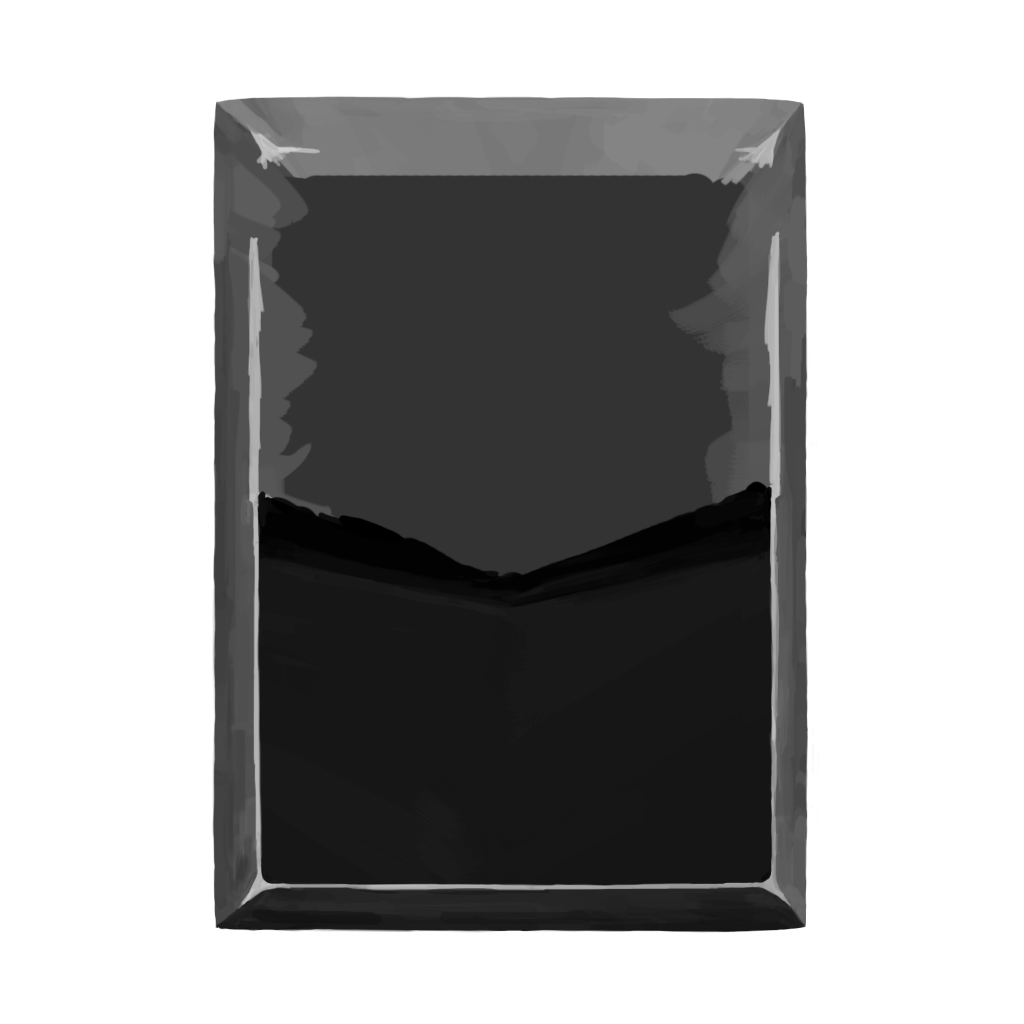
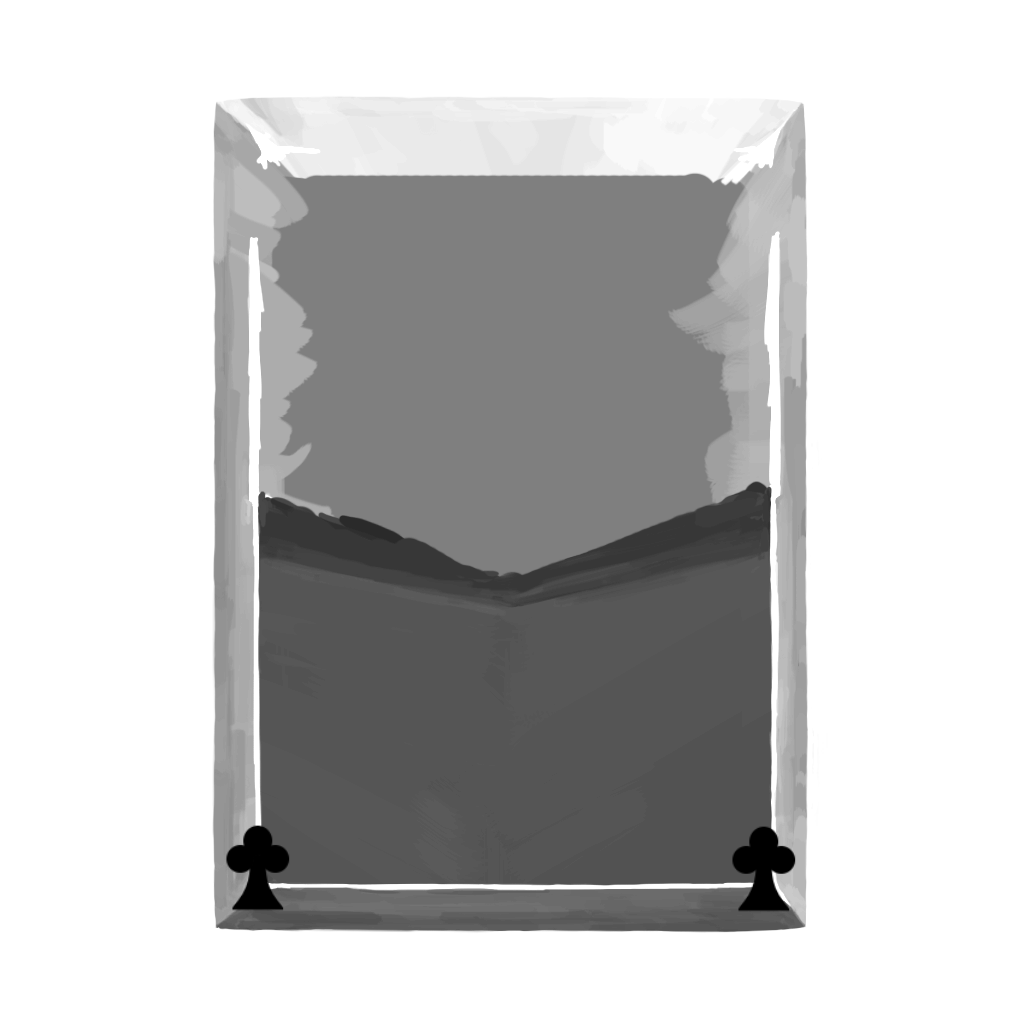
Added new Heart of Gold power and updated card art.

diff --git a/src/main/java/gamblermod/powers/HeartOfGoldPower.java b/src/main/java/gamblermod/powers/HeartOfGoldPower.java
@@ -1,0 +1,97 @@
+package gamblermod.powers;
+
+import com.badlogic.gdx.graphics.Texture;
+import com.megacrit.cardcrawl.actions.common.DrawCardAction;
+import com.megacrit.cardcrawl.core.AbstractCreature;
+import com.megacrit.cardcrawl.core.CardCrawlGame;
+import com.megacrit.cardcrawl.core.Settings;
+import com.megacrit.cardcrawl.dungeons.AbstractDungeon;
+import com.megacrit.cardcrawl.helpers.Hitbox;
+import com.megacrit.cardcrawl.helpers.ImageMaster;
+import com.megacrit.cardcrawl.localization.PowerStrings;
+import com.megacrit.cardcrawl.powers.AbstractPower;
+import com.megacrit.cardcrawl.vfx.GainPennyEffect;
+import gamblermod.cards.powers.HeartOfGold;
+
+public class HeartOfGoldPower extends AbstractPower
+{
+    public static final String POWER_ID = "gamblermod:HeartOfGoldPower";
+    public static final PowerStrings powerInfo = CardCrawlGame.languagePack.getPowerStrings(POWER_ID);
+    public static final String NAME = powerInfo.NAME;
+    public static final String[] DESCRIPTIONS = powerInfo.DESCRIPTIONS;
+    public static final String IMG = "gamblermod/img/powers/HeartOfGoldPowerS.png";
+
+    private int drawPower = 0;
+
+    private int regStacks = 0;
+    private int upStacks = 0;
+
+    public HeartOfGoldPower(AbstractCreature owner, int stacks)
+    {
+        this.img = ImageMaster.loadImage(IMG);
+        this.name = NAME;
+
+        this.owner = owner;
+
+        this.type = PowerType.BUFF;
+        ID = POWER_ID;
+
+        this.amount = stacks;
+
+        drawPower = 1;
+
+        if(stacks == HeartOfGold.GOLD_COST)
+            regStacks++;
+        else
+            upStacks++;
+
+        updateDescription();
+    }
+
+    @Override
+    public void stackPower(int stackAmount)
+    {
+        this.amount += stackAmount;
+        drawPower++;
+        if(stackAmount == HeartOfGold.GOLD_COST)
+            regStacks++;
+        else
+            upStacks++;
+    }
+
+    @Override
+    public void updateDescription()
+    {
+        this.description = DESCRIPTIONS[0] + this.amount + DESCRIPTIONS[1] + this.drawPower + DESCRIPTIONS[2];
+    }
+
+    @Override
+    public void atStartOfTurn()
+    {
+        int UpgradeGold = HeartOfGold.GOLD_COST - HeartOfGold.GOLD_DISCOUNT;
+        for(int i = 0; i < upStacks; i++)
+        {
+            if(AbstractDungeon.player.gold >= UpgradeGold)
+            {
+                Hitbox playerBox = AbstractDungeon.player.hb;
+                for(int j = 0; j < UpgradeGold; j++)
+                    AbstractDungeon.effectList.add(new GainPennyEffect(this.owner, playerBox.cX, playerBox.cY,
+                            playerBox.cX, playerBox.cY - 100 * Settings.scale, false));
+                AbstractDungeon.player.loseGold(UpgradeGold);
+                AbstractDungeon.actionManager.addToBottom(new DrawCardAction(this.owner, 1));
+            }
+        }
+        for(int i = 0; i < regStacks; i++)
+        {
+            if(AbstractDungeon.player.gold >= HeartOfGold.GOLD_COST)
+            {
+                Hitbox playerBox = AbstractDungeon.player.hb;
+                for(int j = 0; j < HeartOfGold.GOLD_COST; j++)
+                    AbstractDungeon.effectList.add(new GainPennyEffect(this.owner, playerBox.cX, playerBox.cY,
+                            playerBox.cX, playerBox.cY - 100 * Settings.scale, false));
+                AbstractDungeon.player.loseGold(HeartOfGold.GOLD_COST);
+                AbstractDungeon.actionManager.addToBottom(new DrawCardAction(this.owner, 1));
+            }
+        }
+    }
+}

diff --git a/src/main/java/gamblermod/actions/SmuggleCardsAction.java b/src/main/java/gamblermod/actions/SmuggleCardsAction.java
@@ -1,12 +1,14 @@
 package gamblermod.actions;
 
 import com.megacrit.cardcrawl.actions.AbstractGameAction;
-import com.megacrit.cardcrawl.actions.common.DiscardAction;
-import com.megacrit.cardcrawl.actions.common.DiscardSpecificCardAction;
-import com.megacrit.cardcrawl.actions.common.DrawCardAction;
+import com.megacrit.cardcrawl.actions.common.*;
+import com.megacrit.cardcrawl.actions.utility.ShowCardAction;
+import com.megacrit.cardcrawl.actions.utility.UnlimboAction;
+import com.megacrit.cardcrawl.actions.utility.WaitAction;
 import com.megacrit.cardcrawl.cards.AbstractCard;
 import com.megacrit.cardcrawl.cards.CardGroup;
 import com.megacrit.cardcrawl.core.AbstractCreature;
+import com.megacrit.cardcrawl.core.Settings;
 import com.megacrit.cardcrawl.dungeons.AbstractDungeon;
 
 import javax.swing.*;
@@ -23,9 +25,29 @@ public class SmuggleCardsAction extends AbstractGameAction
     @Override
     public void update()
     {
-        if(AbstractDungeon.player.drawPile.size() > 0) {
+        if(AbstractDungeon.player.drawPile.isEmpty())
+        {
+            if(!AbstractDungeon.player.discardPile.isEmpty())
+            {
+                AbstractDungeon.actionManager.addToTop(new SmuggleCardsAction(source));
+                AbstractDungeon.actionManager.addToTop(new WaitAction(0.4f));
+                AbstractDungeon.actionManager.addToTop(new EmptyDeckShuffleAction());
+            }
+            this.isDone = true;
+            return;
+        }
+        else
+        {
             AbstractCard topCard = AbstractDungeon.player.drawPile.getTopCard();
-            AbstractDungeon.actionManager.addToTop(new DiscardSpecificCardAction(topCard, AbstractDungeon.player.drawPile));
+            AbstractDungeon.player.drawPile.group.remove(topCard);
+            AbstractDungeon.player.limbo.group.add(topCard);
+            topCard.target_x = (float) Settings.WIDTH / 2.0F;
+            topCard.target_y = (float)Settings.HEIGHT / 2.0F;
+            topCard.targetAngle = 0.0F;
+            topCard.drawScale = 0.12F;
+            topCard.targetDrawScale = 0.75F;
+            AbstractDungeon.actionManager.addToBottom(new WaitAction(0.4f));
+            AbstractDungeon.actionManager.addToBottom(new DiscardSpecificCardAction(topCard, AbstractDungeon.player.limbo));
             AbstractDungeon.actionManager.addToBottom(new DrawCardAction(source, topCard.cost));
         }
         isDone = true;

diff --git a/src/main/java/gamblermod/cards/powers/HeartOfGold.java b/src/main/java/gamblermod/cards/powers/HeartOfGold.java
@@ -1,0 +1,58 @@
+package gamblermod.cards.powers;
+
+import com.megacrit.cardcrawl.actions.AbstractGameAction;
+import com.megacrit.cardcrawl.actions.common.ApplyPowerAction;
+import com.megacrit.cardcrawl.cards.AbstractCard;
+import com.megacrit.cardcrawl.cards.DamageInfo;
+import com.megacrit.cardcrawl.characters.AbstractPlayer;
+import com.megacrit.cardcrawl.core.CardCrawlGame;
+import com.megacrit.cardcrawl.dungeons.AbstractDungeon;
+import com.megacrit.cardcrawl.localization.CardStrings;
+import com.megacrit.cardcrawl.monsters.AbstractMonster;
+
+import basemod.abstracts.CustomCard;
+import gamblermod.enumPatches.AbstractCardEnum;
+import gamblermod.powers.HeartOfGoldPower;
+
+public class HeartOfGold extends CustomCard
+{
+
+    public static final String ID = "gamblermod:HeartOfGold";
+    private static CardStrings cardStrings = CardCrawlGame.languagePack.getCardStrings(ID);
+    // Get object containing the strings that are displayed in the game.
+    public static final String NAME = cardStrings.NAME;
+    public static final String DESCRIPTION = cardStrings.DESCRIPTION;
+    public static final String IMG_PATH = "gamblermod/img/cards/HeartOfGold.png";
+    private static final int COST = 0;
+    public static final int GOLD_COST = 5;
+    public static final int GOLD_DISCOUNT = 2;
+
+    public HeartOfGold()
+    {
+        super(ID, NAME, IMG_PATH, COST, DESCRIPTION,
+                CardType.POWER, AbstractCardEnum.Gambler_CHECKERBOARD,
+                CardRarity.RARE, CardTarget.SELF);
+        this.baseMagicNumber = GOLD_COST;
+    }
+
+    @Override
+    public void use(AbstractPlayer p, AbstractMonster m)
+    {
+        AbstractDungeon.actionManager.addToBottom(new ApplyPowerAction(p, p, new HeartOfGoldPower(p, this.magicNumber)));
+    }
+
+    @Override
+    public AbstractCard makeCopy()
+    {
+        return new HeartOfGold();
+    }
+
+    @Override
+    public void upgrade()
+    {
+        if (!this.upgraded) {
+            this.upgradeName();
+            this.upgradeMagicNumber(-GOLD_DISCOUNT);
+        }
+    }
+}

diff --git a/src/main/java/gamblermod/GamblerMod.java b/src/main/java/gamblermod/GamblerMod.java
@@ -10,6 +10,7 @@ import com.megacrit.cardcrawl.localization.PowerStrings;
 import com.megacrit.cardcrawl.localization.RelicStrings;
 import gamblermod.cards.attacks.*;
 import gamblermod.cards.powers.AceHearts;
+import gamblermod.cards.powers.HeartOfGold;
 import gamblermod.cards.powers.SmuggleCards;
 import gamblermod.cards.skills.*;
 import gamblermod.character.GamblerCharacter;
@@ -47,6 +48,7 @@ public class GamblerMod implements EditCardsSubscriber, EditStringsSubscriber, E
         BaseMod.addCard(new TenDiamonds());
         // MISC POWERS
         BaseMod.addCard(new SmuggleCards());
+        BaseMod.addCard(new HeartOfGold());
     }
 
     @Override

diff --git a/src/main/java/gamblermod/actions/AceHeartsAction.java b/src/main/java/gamblermod/actions/AceHeartsAction.java
@@ -31,7 +31,6 @@ public class AceHeartsAction extends AbstractGameAction
     {
         AbstractPlayer player = AbstractDungeon.player;
         CardGroup hand = player.hand;
-        ArrayList<Pair<PokerHandCheck.Suit, Integer>> pokerHand = new ArrayList<>();
         int powers = 0;
         for(AbstractCard card : hand.group)
         {
